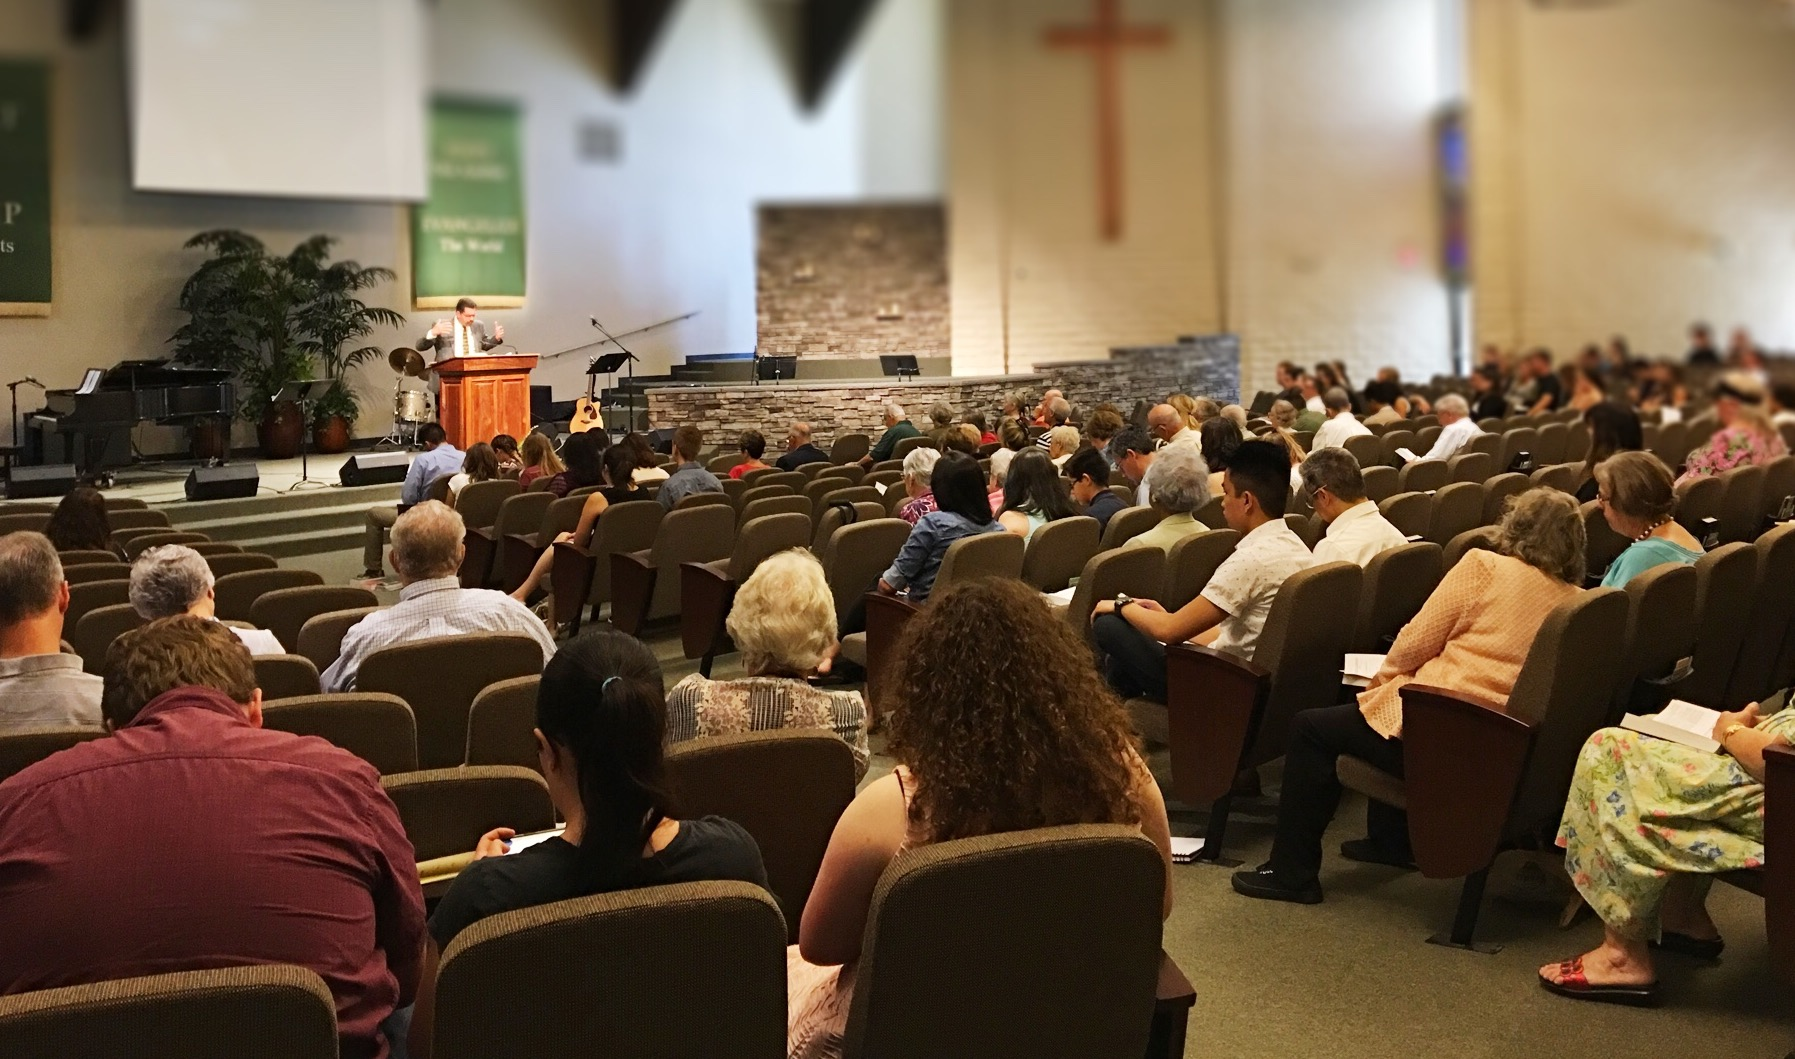
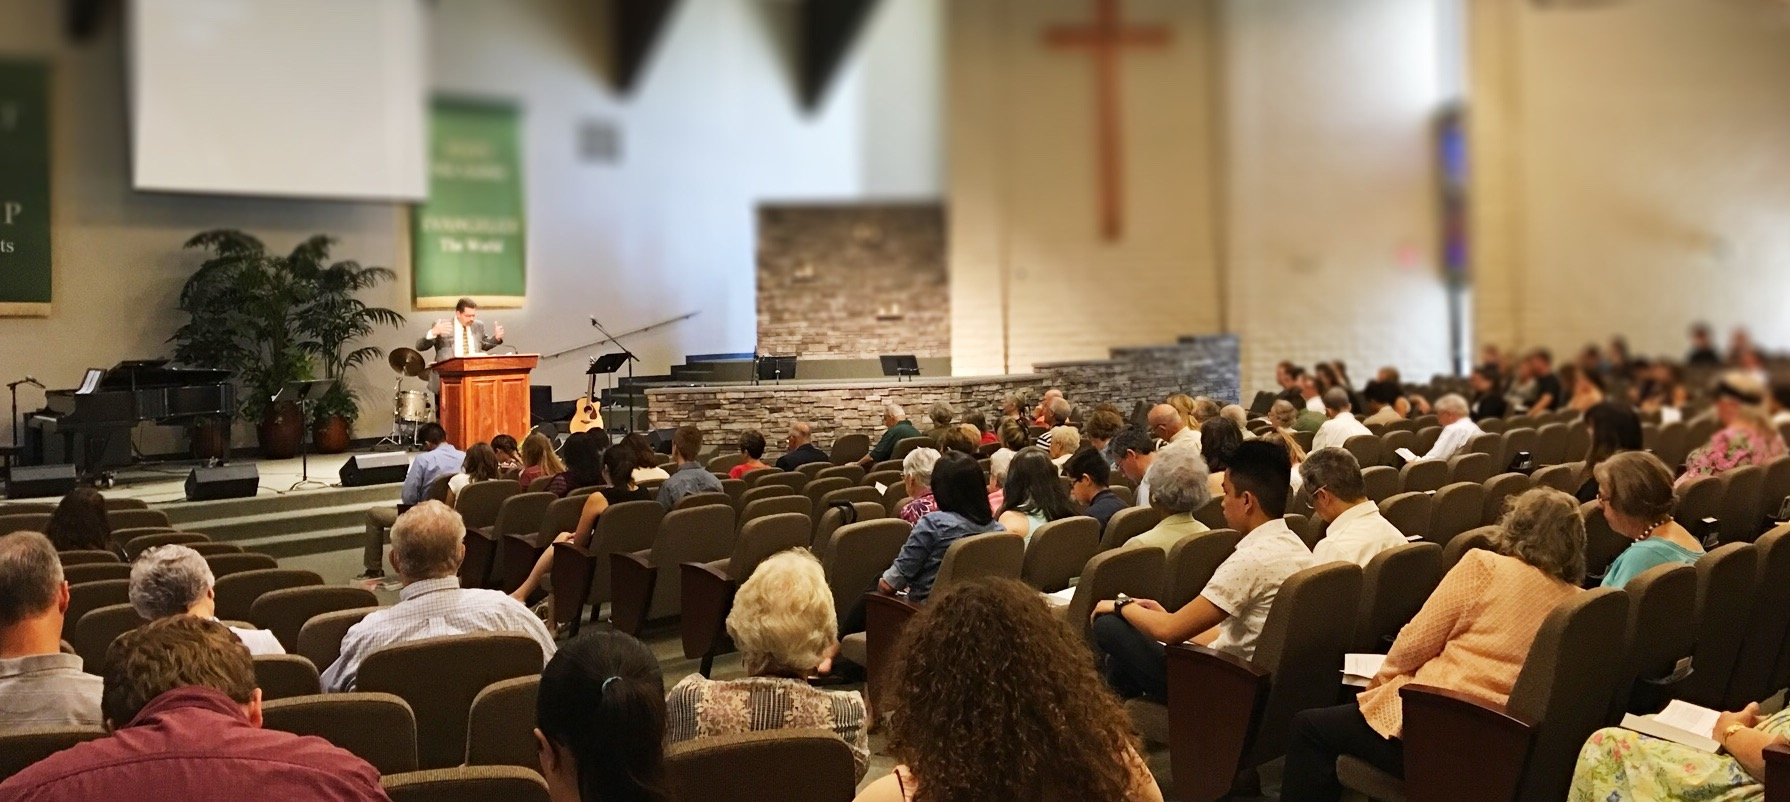
fix(sermons): shrink header height

diff --git a/src/app/shared/header-default/header-default.component.scss b/src/app/shared/header-default/header-default.component.scss
@@ -1,8 +1,8 @@
 @import '../../../variables';
 
-$image-large: 600px;
-$image-medium: 400px;
-$image-small: 300px;
+$image-large: 300px;
+$image-medium: 250px;
+$image-small: 200px;
 
 .container-image {
   // Large (default)
